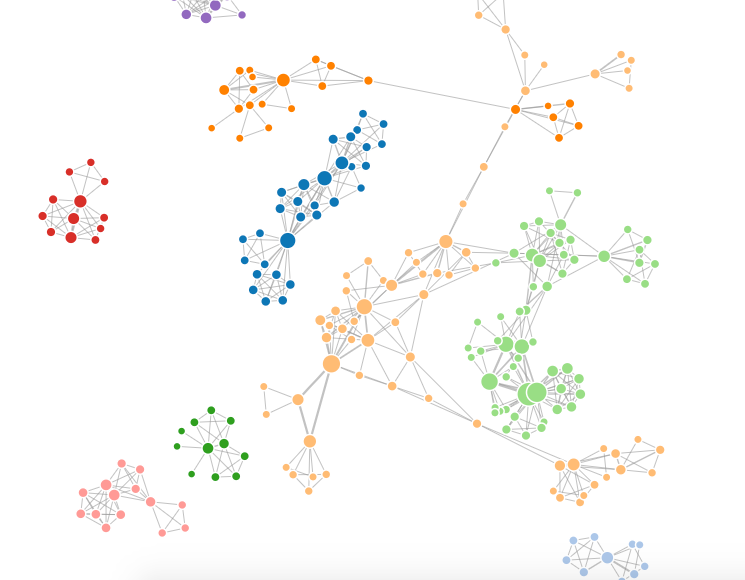
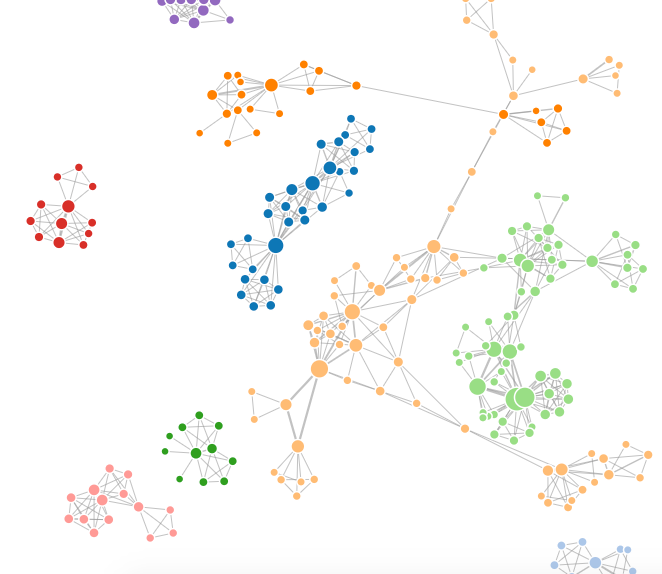
writing

diff --git a/inputs/040-visualization.tex b/inputs/040-visualization.tex
@@ -39,30 +39,44 @@ to attempt to assign an affiliation to each author by querying Microsoft
 Academic Graph for the author and retrieving the most prevalent
 affiliation for that author among the papers returned. I then used
 \protect\hyperlink{the-dynamical-perspective}{Infomap} to find a
-hierarchical clustering of the nodes. To visualize the results, I
-include only the connected components with at least 10 nodes. Each node
-represents a single author; 238 authors appear in the visualization. The
-sizes of the nodes correspond to the amount of flow---the relative
-importance of an author in this co-authorship network. The color of each
-node is assigned based on the top-level cluster assignment of that
-author. Clicking on any node of a connected component will shift the
-focus to that component, and reassign colors, this time based on the
-bottom-level cluster assignment. I also provide a search box which makes
-it easier to find specific authors or affiliations. Note that there may
-be some errors due to using author names as unique IDs.
+hierarchical clustering of the nodes. To visualize the results
+(Fig.~\ref{fig:groupsvis}), I include only the connected components with
+at least 10 nodes. Each node represents a single author; 238 authors
+appear in the visualization. The sizes of the nodes correspond to the
+amount of flow---the relative importance of an author in this
+co-authorship network. The color of each node is assigned based on the
+top-level cluster assignment of that author. Clicking on any node of a
+connected component will shift the focus to that component, and reassign
+colors, this time based on the bottom-level cluster assignment. I also
+provide a search box which makes it easier to find specific authors or
+affiliations, and a pop up box on mouseover with details about the
+author and titles of papers. Note that there may be some errors due to
+using author names as unique IDs.
 
-\subsection{Labs involved in visualizing group structure in
-networks}\label{labs-involved-in-visualizing-group-structure-in-networks}
+\begin{figure}
+\centering
+\includegraphics{img/groups_vis.png}
+\caption{Coauthorship network of the visualization methods papers
+surveyed in \autocite{vehlow_state_2015}. Nodes represent authors, with
+weighted links indicating co-authorship. Nodes in this view are colored
+by the top level of the hierarchical Infomap community assignment, and
+roughly correspond to labs and institutions. Available at
+\url{http://students.washington.edu/jporteno/groups/}}\label{fig:groupsvis}
+\end{figure}
 
-I represent the co-authorship network as a node-link diagram, which is a
-very common way of visualizing networks. The nodes are visualized using
-a force-directed algorithm, in which forces of attraction and repulsion
+I represent the co-authorship network using D3
+\autocite{bostock_d3:_2011} as a node-link diagram, which is a very
+common way of visualizing networks. The nodes are visualized using a
+force-directed algorithm, in which forces of attraction and repulsion
 are applied to nodes and links and then placed so as to minimize the
 energy. Interestingly, the force-directed layout has been shown to be
 equivalent to the commonly used modularity quality function for
 communities \autocite{noack_modularity_2009}---this is why a
 visualization of a network that uses this layout can show implicit
 community structure by grouping similar nodes together visually.
+
+\subsection{Labs involved in visualizing group structure in
+networks}\label{labs-involved-in-visualizing-group-structure-in-networks}
 
 Using this system can help to identify some of the key researchers in
 this area and the relationships between them. To find the labs, I can
@@ -82,6 +96,17 @@ community structure is visualized as rectangular blocks (in a way
 resembling the alluvial diagrams in Rosvall and Bergstrom
 \autocite{rosvall_mapping_2010} see Fig.~\ref{fig:alluvial}), and these
 are combined with node-link representations of the community subgraphs.
+Fig.~\ref{fig:vehlow} shows the evolution of a network of soccer teams
+over time.
+
+\begin{figure}
+\centering
+\includegraphics{img/vehlow2015_fig7_dynamic.png}
+\caption{Evolution of the community structure of a network of soccer
+matches from 1992 to 2005 (teams are connected if they played each
+other) From Vehlow et
+al.~\autocite{vehlow_visualizing_2015}.}\label{fig:vehlow}
+\end{figure}
 
 Close to the Stuttgart lab is the team at LaBRI at the University of
 Bordeaux, France. Researchers here include Romain Bourqui and David
@@ -101,14 +126,22 @@ UC Davis Center for Visualization appears as a mostly blue community.
 The University of Arizona Graph and Map Algorithm (GAMA) Lab, headed by
 Stephen Kobourov, is well connected in the component. An interesting
 paper out of this last lab is \autocite{gansner_gmap:_2010}, in which
-communities are visualized to look like cartographic maps. This method
-has a pleasing aesthetic that people might find preferable to the
-standard node-link diagram, as many people are turned off by the
-``hairball'' that tends to result from the standard approach. Indeed,
-the authors use their mapping technique to visualize a co-authorship
-network, and this may be a superior way to visualize this data than what
-I have done. Another paper \autocite{saket_map-based_2015} found that
-the cartographic map technique improved people's recall of data.
+communities are visualized to look like cartographic maps. This method,
+which the authors call GMap has a pleasing aesthetic that people might
+find preferable to the standard node-link diagram, as many people are
+turned off by the ``hairball'' that tends to result from the standard
+approach. Indeed, the authors use their mapping technique to visualize a
+co-authorship network (Fig.~\ref{fig:gmap}), and this may be a superior
+way to visualize this data than what I have done. Another paper
+\autocite{saket_map-based_2015} found that the cartographic map
+technique improved people's recall of data.
+
+\begin{figure}
+\centering
+\includegraphics{img/ganser2010_fig6_gmap.png}
+\caption{GMap \autocite{gansner_gmap:_2010} representation of an author
+collaboration network among visualization ressearchers.}\label{fig:gmap}
+\end{figure}
 
 Some labs are represented in the smaller components as well. One such
 component contains two labs in China---the Tong Ji Intelligent Big Data
